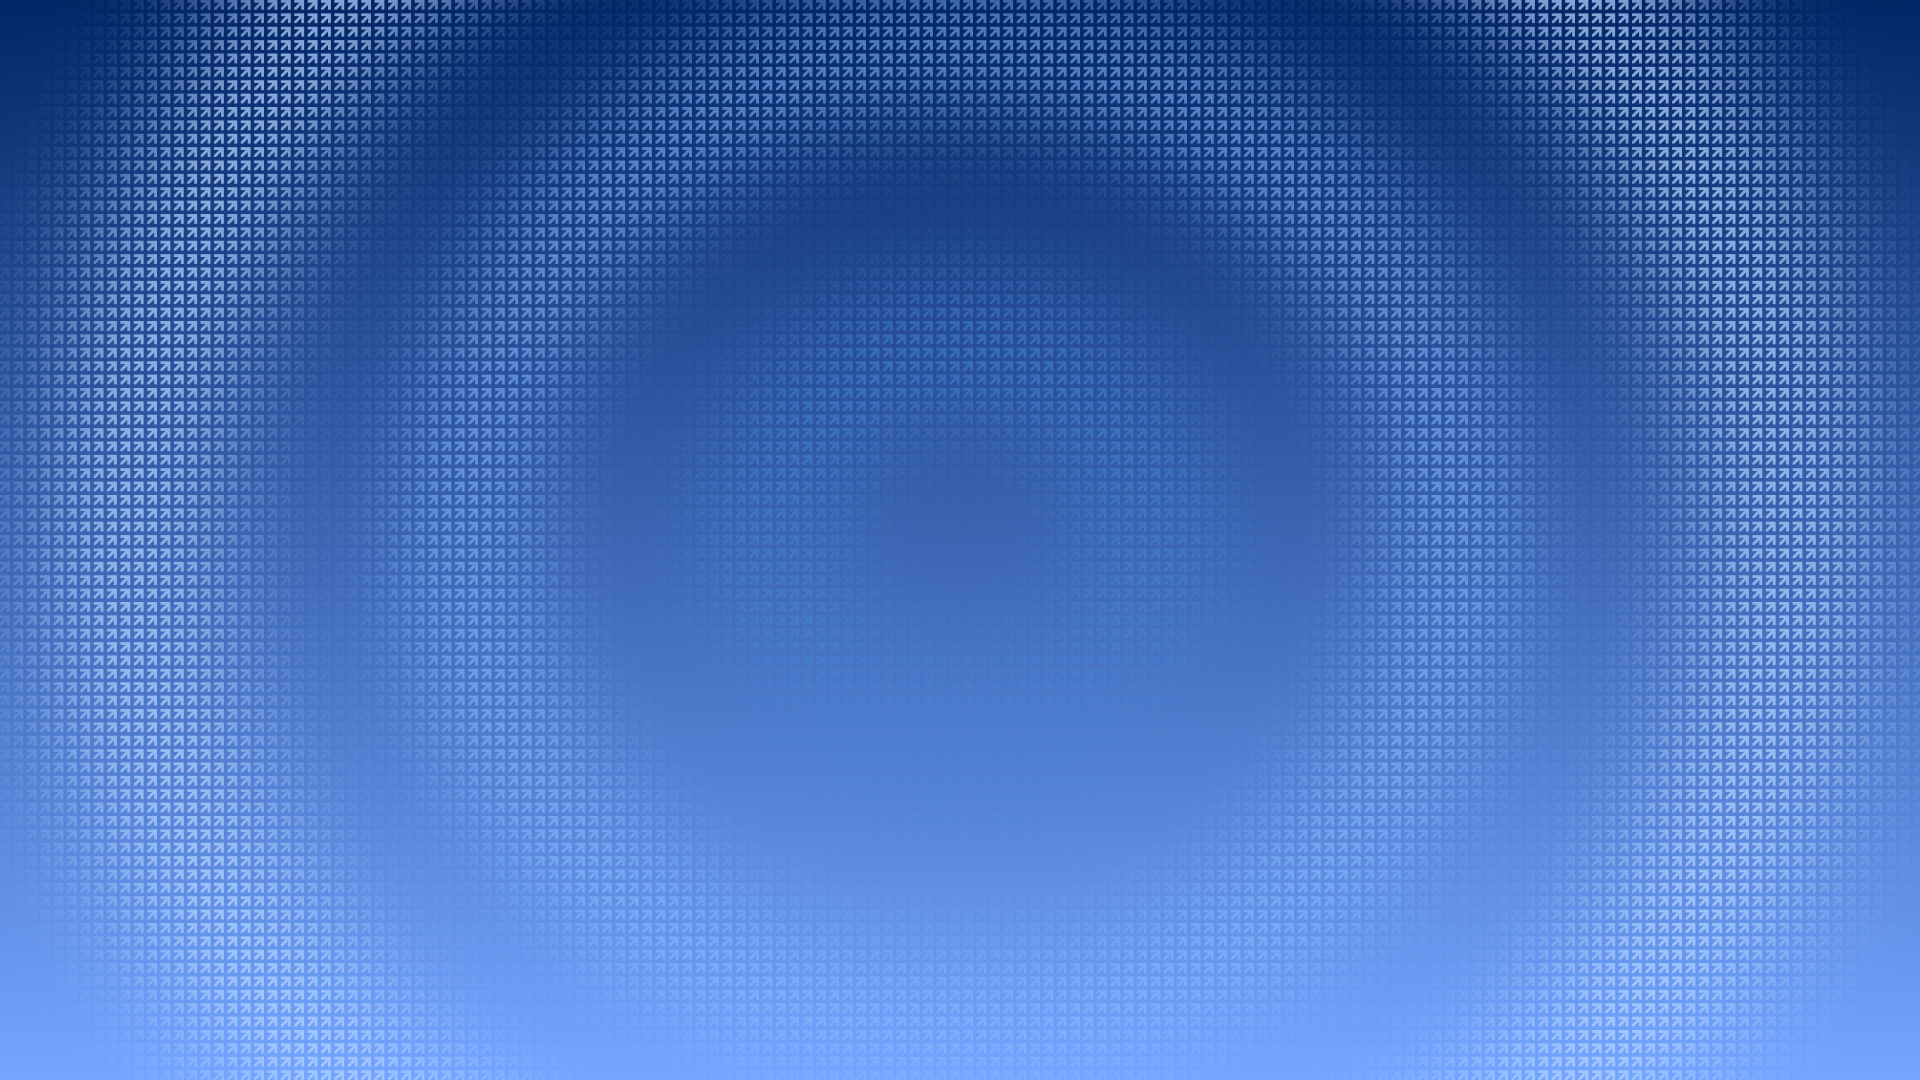
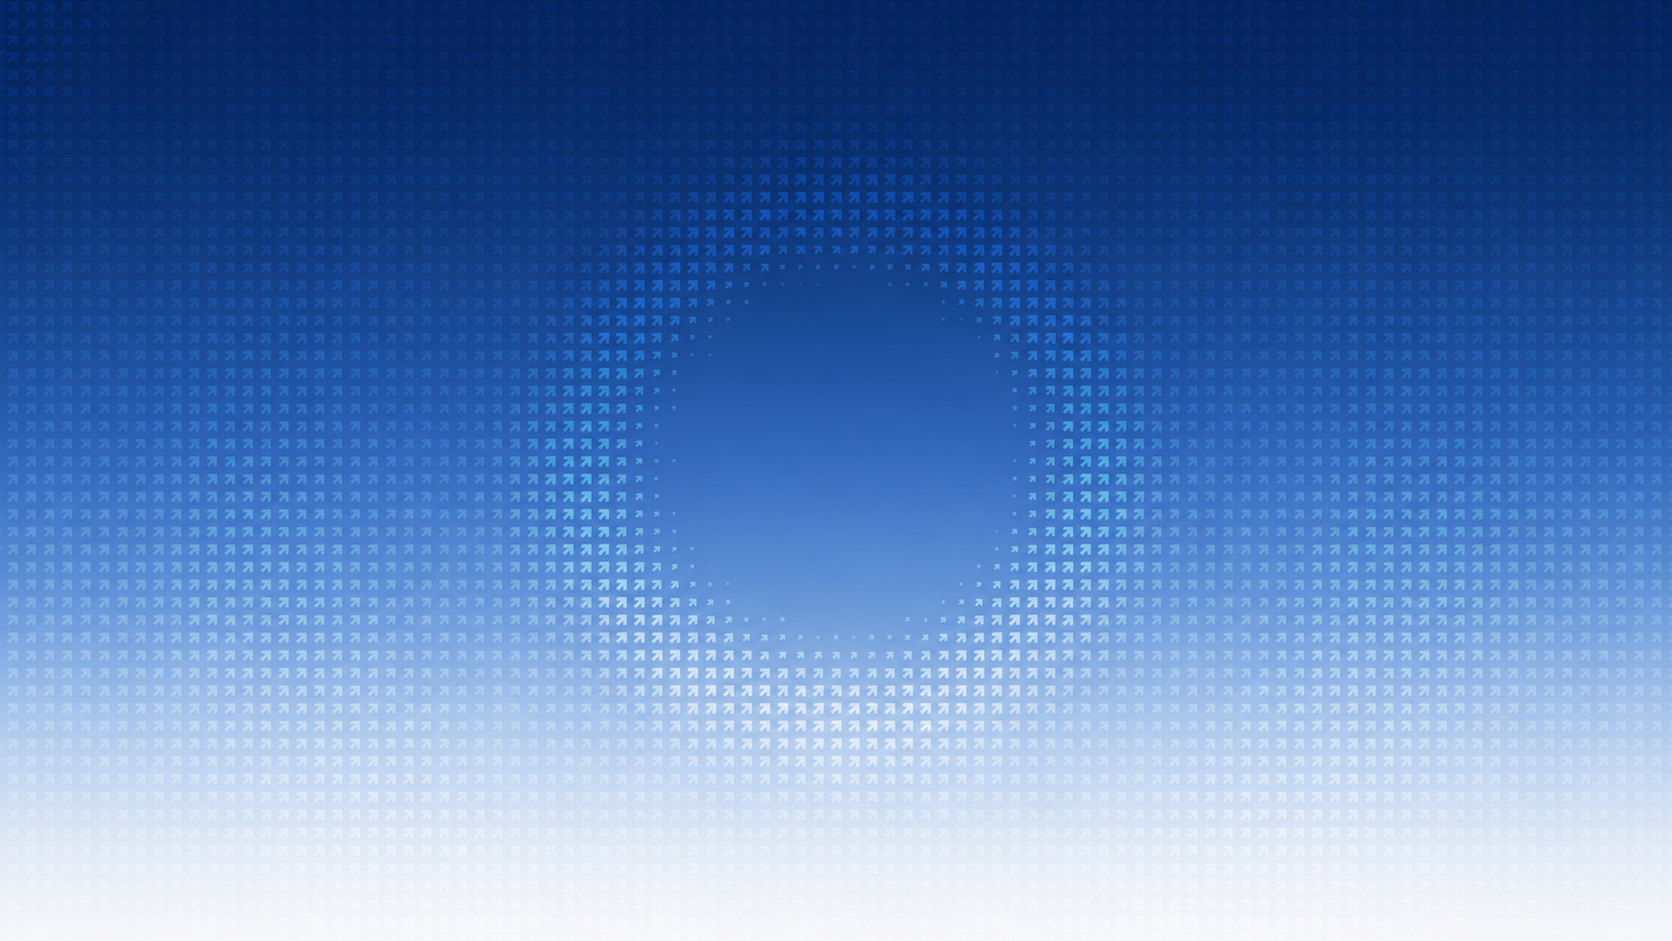
Nav: transparent bg; Hero: BG Final.png, 15% scale-up via img transform

diff --git a/components/Hero.tsx b/components/Hero.tsx
@@ -25,14 +25,23 @@ export default function Hero({ headline, subline }: HeroProps) {
   return (
     <section
       className="relative flex items-center overflow-hidden"
-      style={{
-        minHeight: '100svh',
-        backgroundImage: 'url(/hero-bg.png)',
-        backgroundSize: 'cover',
-        backgroundPosition: 'center',
-        backgroundRepeat: 'no-repeat',
-      }}
+      style={{ minHeight: '100svh' }}
     >
+      {/* eslint-disable-next-line @next/next/no-img-element */}
+      <img
+        src="/hero-bg.png"
+        alt=""
+        style={{
+          position: 'absolute',
+          inset: 0,
+          width: '100%',
+          height: '100%',
+          objectFit: 'cover',
+          transform: 'scale(1.15)',
+          pointerEvents: 'none',
+          zIndex: 0,
+        }}
+      />
       {/* ── Main content — centered ────────────────────────────────── */}
       <Container className="w-full relative z-10">
         <div className="max-w-4xl mx-auto text-center">

diff --git a/components/Navigation.tsx b/components/Navigation.tsx
@@ -49,8 +49,8 @@ export default function Navigation() {
           transition={{ duration: 0.3, ease: [0.22, 1, 0.36, 1] }}
           className="fixed top-0 left-0 right-0 z-50"
           style={{
-            background: '#052560',
-            borderBottom: '1px solid rgba(255,255,255,0.10)',
+            background: 'transparent',
+            borderBottom: 'none',
           }}
         >
           <div className="mx-auto max-w-7xl px-6 md:px-12 h-16 flex items-center justify-between">